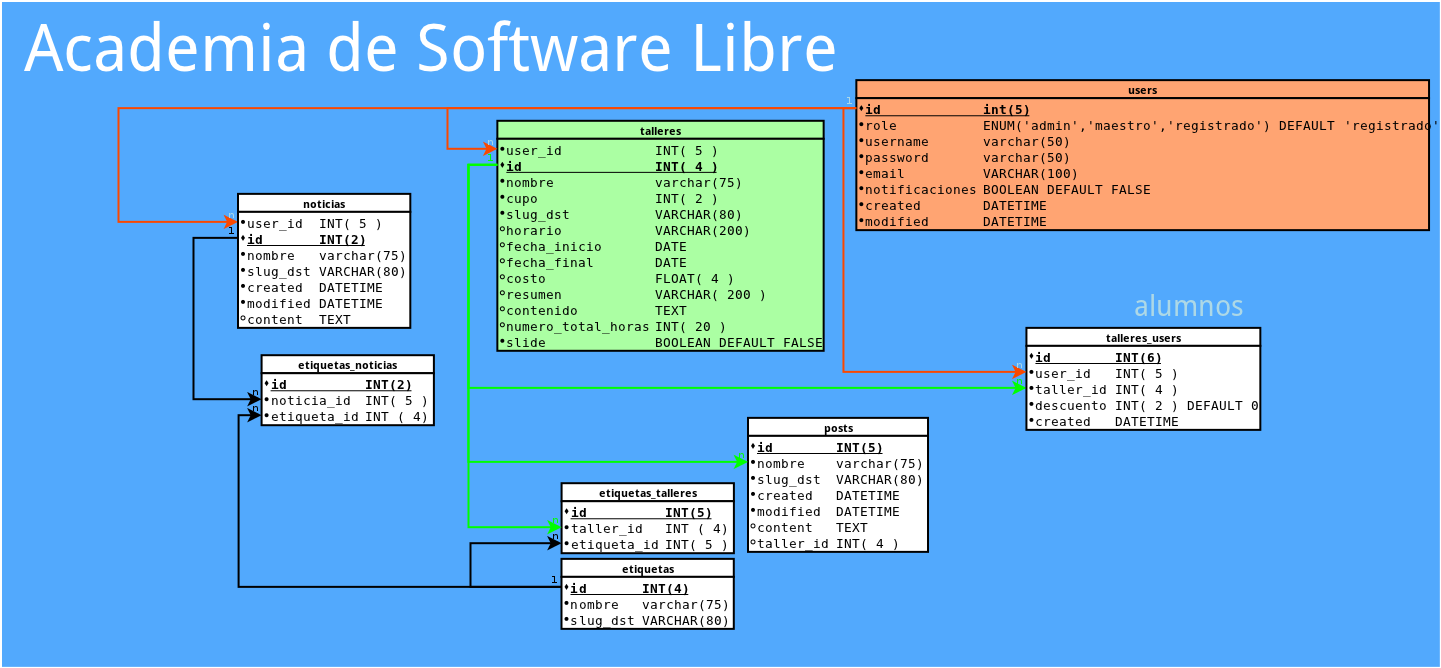
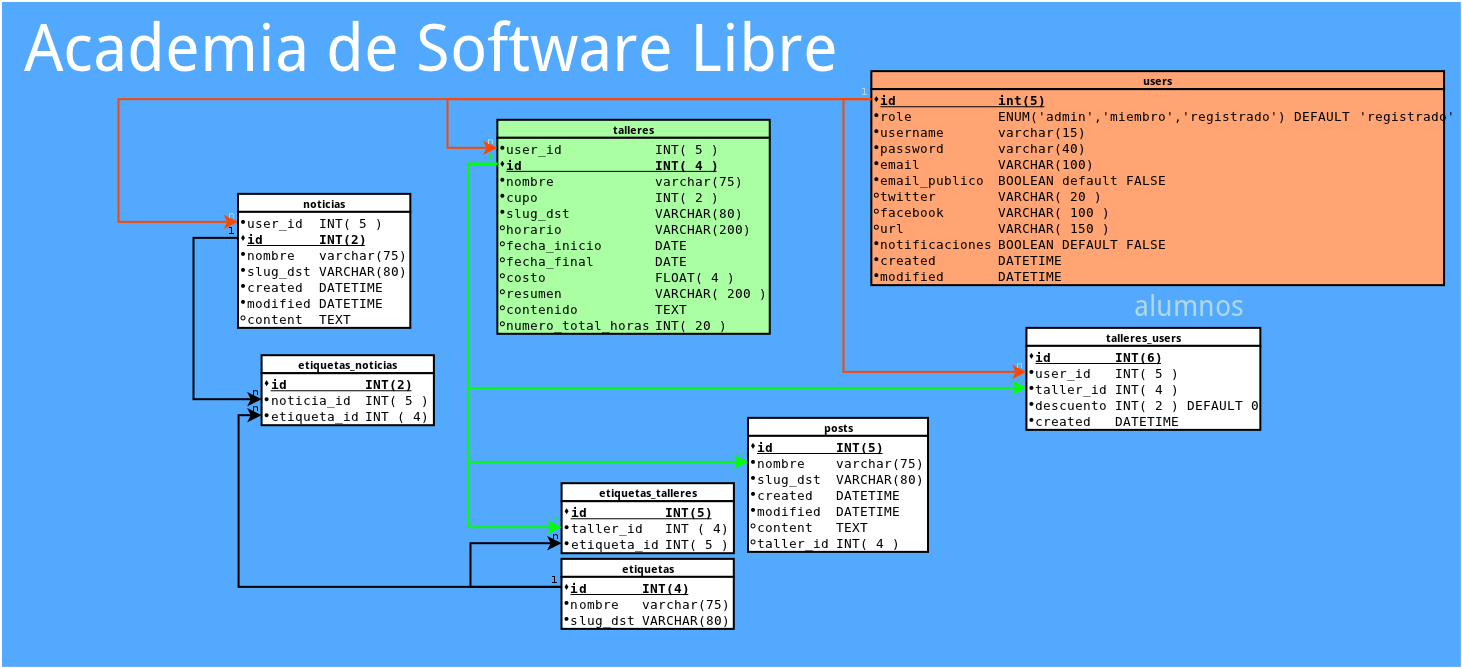
Cambiando usuario role mestro por miembro

Changed region(s): [[0.0312, 0.0299, 0.9993, 0.8683], [0.3747, 0.6287, 0.6558, 0.9581], [0.3123, 0.8084, 0.3435, 0.8683]]

diff --git a/app/Config/Schema/db/01-schema.js b/app/Config/Schema/db/01-schema.js
@@ -54,7 +54,7 @@ var tablas = [
 "line_colour" : "#000000",
 "campos" : [
  {"nombre" : "id", "tipo": "INT(5)", "clave_primaria": true,"clave_unica": true,"es_null": false,"auto_increment": true},
- {"nombre" : "role", "tipo": "ENUM('admin','maestro','registrado') DEFAULT 'registrado'", "clave_primaria": false,"es_null": false,"clave_unica": false,"auto_increment": false},
+ {"nombre" : "role", "tipo": "ENUM('admin','miembro','registrado') DEFAULT 'registrado'", "clave_primaria": false,"es_null": false,"clave_unica": false,"auto_increment": false},
  {"nombre" : "username", "tipo": "VARCHAR(15)", "clave_primaria": false,"es_null": false,"clave_unica": true,"auto_increment": false},
  {"nombre" : "password", "tipo": "VARCHAR(40)", "clave_primaria": false,"es_null": false,"clave_unica": false,"auto_increment": false},
  {"nombre" : "email", "tipo": "VARCHAR(100)", "clave_primaria": false,"es_null": false,"clave_unica": true,"auto_increment": false},

diff --git a/app/Model/User.php b/app/Model/User.php
@@ -23,7 +23,7 @@ class User extends AppModel {
 	public $validate = array(
 		'role' => array(
 			'inlist' => array(
-				'rule' => array('inlist',array('admin','maestro','registrado')),
+				'rule' => array('inlist',array('admin','miembro','registrado')),
 				'message' => 'Your custom message here',
 				'allowEmpty' => true,
 				'required' => false,

diff --git a/app/Model/Taller.php b/app/Model/Taller.php
@@ -125,7 +125,7 @@ class Taller extends AppModel {
 		'User' => array(
 			'className' => 'User',
 			'foreignKey' => 'user_id',
-			'conditions' => array('User.role' => array('admin', 'maestro')),
+			'conditions' => array('User.role' => array('admin', 'miembro')),
 			'fields' => '',
 			'order' => ''
 		)
